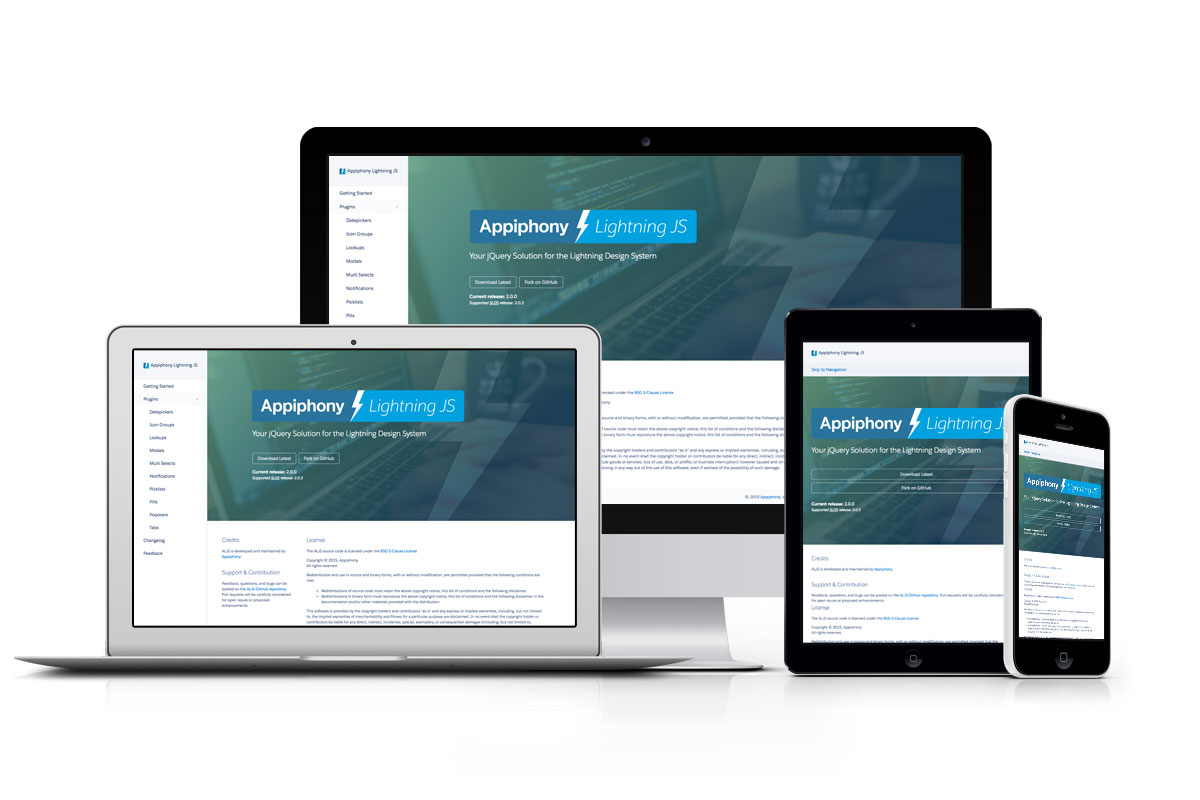
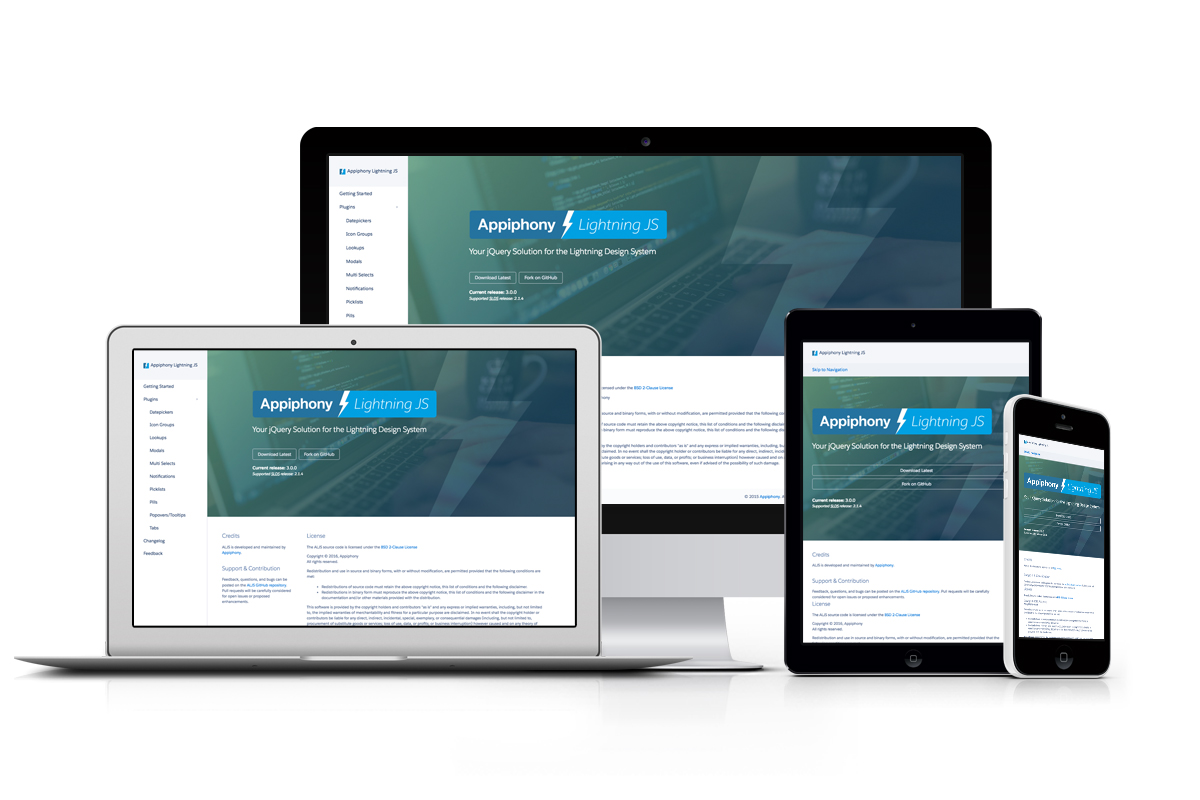
Updated project images; reverted back to no delay on loading animations

diff --git a/css/main.min.css b/css/main.min.css
@@ -1,1 +1,1 @@
-*,a:focus{outline:0}#hero .container .intro .drop-down:after,#hero:after,.clearfix:after{content:''}@-webkit-keyframes load-bounce{0%,100%{-webkit-transform:scale(.25) translateY(-75px)}50%{-webkit-transform:scale(1) translateY(0)}}@keyframes load-bounce{0%,100%{transform:scale(.25) translateY(-75px);-webkit-transform:scale(.25) translateY(-75px)}50%{transform:scale(1) translateY(0);-webkit-transform:scale(1) translateY(0)}}*{padding:0;border:none;margin:0;box-sizing:border-box}body,html{width:100%;height:100%}body{font-family:'Source Sans Pro',sans-serif;-webkit-font-smoothing:antialiased;-moz-osx-font-smoothing:grayscale;-ms-text-size-adjust:100%;-webkit-text-size-adjust:100%;font-size:14px;background-color:#000;overflow-x:hidden;overflow-y:scroll}body.disable-scroll{overflow-y:hidden;-webkit-overflow-scrolling:none}a,a:visited{color:#f68b1f;text-decoration:none;font-weight:700;-webkit-transition:all 250ms ease;-moz-transition:all 250ms ease;-ms-transition:all 250ms ease;-o-transition:all 250ms ease;transition:all 250ms ease}a:hover{color:#fff}::selection{background:#ff9d1d}::-moz-selection{background:#ff9d1d}.container{width:1200px;margin:0 auto}.clearfix:after{display:table;clear:both}header{overflow:hidden;width:100%;height:100px;background-color:rgba(0,0,0,.8);position:fixed;top:0;z-index:9999;-webkit-transition:all 250ms cubic-bezier(.5,0,0,1);-moz-transition:all 250ms cubic-bezier(.5,0,0,1);-ms-transition:all 250ms cubic-bezier(.5,0,0,1);-o-transition:all 250ms cubic-bezier(.5,0,0,1);transition:all 250ms cubic-bezier(.5,0,0,1)}header.open{overflow:auto;height:100%}header h1{display:inline-block;float:left;margin-top:29px}header h1 .logo{height:40px;width:auto;cursor:pointer}header h1 .logo.fallback{display:none}header nav{display:block;float:right;margin-top:32px}header nav ul{list-style:none}header nav ul li{float:left;margin-left:10px}#project .project-hero .project-actions a,#project .project-hero .project-actions a:visited,header nav ul li a,header nav ul li a:visited{display:inline-block;color:#1e1e1e;font-size:12px;font-weight:700;text-transform:uppercase;padding:10.5px 12px;background-color:#fff;-webkit-border-radius:2px;-moz-border-radius:2px;border-radius:2px;-webkit-box-shadow:4px 6px 10px 0 rgba(0,0,0,.25);-moz-box-shadow:4px 6px 10px 0 rgba(0,0,0,.25);box-shadow:4px 6px 10px 0 rgba(0,0,0,.25)}header nav ul li a:hover{color:#f68b1f}#project .project-hero .project-actions a .icon,header nav ul li a .icon{display:inline-block;margin-right:6px}header .mobile-menu{display:none;float:right;margin-top:27px}header .mobile-menu:after{font-family:FontAwesome;font-size:12px;color:#1e1e1e;content:'\f0c9';display:block;padding:11.5px 12.5px;background-color:#fff;-webkit-border-radius:2px;-moz-border-radius:2px;border-radius:2px;-webkit-transition:all 250ms ease;-moz-transition:all 250ms ease;-ms-transition:all 250ms ease;-o-transition:all 250ms ease;transition:all 250ms ease;-webkit-box-shadow:4px 6px 10px 0 rgba(0,0,0,.25);-moz-box-shadow:4px 6px 10px 0 rgba(0,0,0,.25);box-shadow:4px 6px 10px 0 rgba(0,0,0,.25)}header .mobile-menu.active:after{color:#1e1e1e;background-color:#f68b1f}#hero{position:relative}#hero:after{background:url(../images/hero-bg.jpg) center center no-repeat;background-size:cover;position:absolute;top:0;width:100%;height:600px;-webkit-transition:opacity 1500ms ease;-moz-transition:opacity 1500ms ease;-ms-transition:opacity 1500ms ease;-o-transition:opacity 1500ms ease;transition:opacity 1500ms ease;opacity:0}#hero.reveal:after{opacity:.25}#hero .container{position:relative;z-index:9998;height:600px;-webkit-transition:all 500ms ease;-moz-transition:all 500ms ease;-ms-transition:all 500ms ease;-o-transition:all 500ms ease;transition:all 500ms ease;opacity:1}#hero .container .intro,#hero .container .intro .drop-down{line-height:48px;-moz-transition:all 250ms ease;-ms-transition:all 250ms ease;-o-transition:all 250ms ease}#hero .container.closed{height:100px;opacity:0}#hero .container .intro{width:720px;font-size:28px;font-weight:300;letter-spacing:-.25px;color:#fff;position:absolute;z-index:2;bottom:162px;right:0;padding-left:28px;margin-bottom:120px;border-left:1px solid #f68b1f;overflow:hidden;opacity:0;-webkit-transition:all 250ms ease;transition:all 250ms ease}#hero .container .intro.loaded{overflow:visible}#hero .container .intro.reveal{margin-bottom:0;opacity:1}#hero .container .intro .slide-in{width:720px;position:relative;left:-720px;-webkit-transition:all 500ms ease;-moz-transition:all 500ms ease;-ms-transition:all 500ms ease;-o-transition:all 500ms ease;transition:all 500ms ease}#hero .container .intro .slide-in.reveal{left:0}#hero .container .intro strong{font-size:64px;display:inline-block;margin:16px 0 14px;width:100%;font-weight:900;text-transform:uppercase;position:relative;left:-2px}#hero .container .intro .reponsive-break{display:none}#hero .container .intro .drop-down{font-size:24px;font-weight:700;font-style:normal;color:#3c3c3c;background-color:#fff;display:inline-block;vertical-align:top;padding:0 16px 1px;margin:0 6px;width:240px;position:relative;top:1px;cursor:pointer;-webkit-border-radius:2px;-moz-border-radius:2px;border-radius:2px;text-align:left;-webkit-transition:all 250ms ease;transition:all 250ms ease}#hero .container .intro .drop-down .options,#hero .container .intro .drop-down:after{-webkit-transition:all 250ms ease;-moz-transition:all 250ms ease;-ms-transition:all 250ms ease;-o-transition:all 250ms ease;height:0;position:absolute}#hero .container .intro .drop-down:hover{color:#f68b1f}#hero .container .intro .drop-down:after{display:block;width:0;border-style:solid;border-width:7px 8px 0;border-color:#3c3c3c transparent transparent;right:16px;top:21px;transition:all 250ms ease}#hero .container .intro .drop-down:hover:after{border-color:#f68b1f transparent transparent}#hero .container .intro .drop-down .options{list-style:none;background-color:#1e1e1e;font-weight:300;top:58px;left:0;z-index:9998;width:240px;-webkit-border-radius:2px;-moz-border-radius:2px;border-radius:2px;transition:all 250ms ease;overflow:hidden}#hero .container .intro .drop-down .options.open{height:188px;padding:6px 0 8px}#hero .container .intro .drop-down .options li{display:block;font-size:22px;line-height:22px;color:#fff;padding:6px 16px;margin:0;cursor:pointer;-webkit-transition:all 250ms ease;-moz-transition:all 250ms ease;-ms-transition:all 250ms ease;-o-transition:all 250ms ease;transition:all 250ms ease}#hero .container .intro .drop-down .options li:hover{color:#f68b1f}#hero .container #hero-photo{position:absolute;z-index:9998;width:50%;bottom:0;pointer-events:none;-webkit-transition:all 2000ms ease;-moz-transition:all 2000ms ease;-ms-transition:all 2000ms ease;-o-transition:all 2000ms ease;transition:all 2000ms ease;opacity:1}#hero .container.closed #hero-photo{opacity:0}main #portfolio{list-style:none;padding:0}main #portfolio li{float:left;width:25%;height:260px}main #portfolio li a{display:block;width:100%;height:260px;position:relative;color:#fff;font-weight:700;overflow:hidden;-webkit-transition:all 250ms ease;-moz-transition:all 250ms ease;-ms-transition:all 250ms ease;-o-transition:all 250ms ease;transition:all 250ms ease;opacity:0;margin-top:60px;pointer-events:none}main #portfolio li.loaded a{opacity:1;margin-top:0}main.loaded #portfolio li a{-webkit-transition:none;-moz-transition:none;-ms-transition:none;-o-transition:none;transition:none;pointer-events:all}main #portfolio li a .title,main #portfolio li a img{-webkit-transition:all 250ms cubic-bezier(.5,0,0,1);-moz-transition:all 250ms cubic-bezier(.5,0,0,1);-ms-transition:all 250ms cubic-bezier(.5,0,0,1);-o-transition:all 250ms cubic-bezier(.5,0,0,1);transition:all 250ms cubic-bezier(.5,0,0,1)}main #portfolio li a img{-webkit-filter:grayscale(.25) brightness(.75);filter:grayscale(.25) brightness(.75)}main #portfolio li a .title{padding:15px;background-color:rgba(0,0,0,.6);display:block;overflow:hidden;text-overflow:ellipsis;white-space:nowrap;position:absolute;bottom:-100px;left:0;width:100%}main.loaded #portfolio li a:hover img{-webkit-transform:scale(1.05);-moz-transform:scale(1.05);-ms-transform:scale(1.05);-o-transform:scale(1.05);transform:scale(1.05);-webkit-filter:grayscale(0) brightness(1);filter:grayscale(0) brightness(1)}main.loaded #portfolio li.loaded a:hover .title{bottom:0}#loading{width:auto;text-align:center;position:fixed;left:50%;margin-left:-35px;top:50%;margin-top:-10px;opacity:0;z-index:9999;pointer-events:none;-webkit-transition:all 250ms ease 50ms;-moz-transition:all 250ms ease 50ms;-ms-transition:all 250ms ease 50ms;-o-transition:all 250ms ease 50ms;transition:all 250ms ease 50ms}#loading.active{opacity:1}#loading>div{width:18px;height:18px;background-color:#fff;border-radius:100%;display:inline-block;margin:0 2px;-webkit-animation:load-bounce 1000ms infinite ease-in-out;animation:load-bounce 1000ms infinite ease-in-out;-webkit-animation-fill-mode:both;animation-fill-mode:both;-webkit-animation-play-state:paused;animation-play-state:paused}#loading.active>div{-webkit-animation-play-state:running;animation-play-state:running}#loading .bounce-1{-webkit-animation-delay:-320ms;animation-delay:-320ms}#loading .bounce-2{-webkit-animation-delay:-160ms;animation-delay:-160ms}#project{margin-top:22px}#project .project-content,#project .project-hero{opacity:0;-webkit-transition:all 350ms cubic-bezier(.5,.1,0,1.75);-moz-transition:all 350ms cubic-bezier(.5,.1,0,1.75);-ms-transition:all 350ms cubic-bezier(.5,.1,0,1.75);-o-transition:all 350ms cubic-bezier(.5,.1,0,1.75);transition:all 350ms cubic-bezier(.5,.1,0,1.75);-moz-transform:translateY(100px);-webkit-transform:translateY(100px);-o-transform:translateY(100px);-ms-transform:translateY(100px);transform:translateY(100px)}#project .project-content.active,#project .project-hero.active{opacity:1;-moz-transform:translateY(0);-webkit-transform:translateY(0);-o-transform:translateY(0);-ms-transform:translateY(0);transform:translateY(0)}#project .project-hero{height:300px;position:relative;background-size:cover;background-position:center center;background-repeat:no-repeat}#project .project-hero .project-actions{display:block;position:absolute;top:30px;right:30px;list-style:none}#project .project-hero .project-actions li{float:left;display:block;margin-left:10px}#project .project-hero .project-actions #close-btn{padding:10.5px 13.5px}#project .project-hero .project-actions #info-btn{padding:10.5px 16px}#project .project-hero .project-actions #info-btn.active{color:#1e1e1e;background-color:#f68b1f}#project .project-hero .project-actions #info-btn.active:hover{color:#fff}#project .project-hero .project-actions #close-btn:after,#project .project-hero .project-actions #info-btn:after{font-family:FontAwesome;content:'\f00d'}#project .project-hero .project-actions #info-btn:after{content:'\f129'}#project .project-hero .project-actions #close-btn:hover,#project .project-hero .project-actions #info-btn:hover{color:#f68b1f}#project .project-hero .title{background-color:rgba(0,0,0,.6);padding:20px 30px;position:absolute;width:100%;bottom:0}#project .project-hero .title h2{font-size:36px;font-weight:300;letter-spacing:-.25px;display:inline-block;float:left;color:#fff;margin-top:2px}#project .project-hero .title .tools{float:right;display:block}#project .project-hero .title .tools img{display:inline-block;margin:8px 0 0 10px;height:36px;width:auto;max-width:80px}#project .project-content{background-color:#fff;margin-bottom:30px}#project .project-content .notes{padding:25px 30px;color:#fff;background-color:#1e1e1e;display:none}#project .project-content .images,#project .project-content .text,#project .project-content .videos{padding:30px;position:relative}#project .project-content .images img{max-width:100%;height:auto;display:block}#project .project-content .images ul:not(.lSPager){list-style:none;width:100%}#project .project-content .images ul:not(.lSPager) li{width:100%}#project .project-content .images .lSNext,#project .project-content .images .lSPrev{display:block;color:#1e1e1e;font-size:18px;line-height:12px;font-weight:700;width:36px;height:36px;background-color:#fff;background-image:none;-webkit-border-radius:2px;-moz-border-radius:2px;border-radius:2px;opacity:1;-webkit-box-shadow:4px 6px 10px 0 rgba(0,0,0,.25);-moz-box-shadow:4px 6px 10px 0 rgba(0,0,0,.25);box-shadow:4px 6px 10px 0 rgba(0,0,0,.25)}#project .project-content .images .lSPrev{padding:12px 12.5px;left:15px}#project .project-content .images .lSNext{padding:12px 13.5px;right:15px}#project .project-content .images .lSNext:after,#project .project-content .images .lSPrev:after{font-family:FontAwesome;font-size:12px;content:'\f053';display:block;-webkit-transition:all 250ms ease;-moz-transition:all 250ms ease;-ms-transition:all 250ms ease;-o-transition:all 250ms ease;transition:all 250ms ease}#project .project-content .images .lSNext:after{content:'\f054'}#project .project-content .images .lSNext:hover:after,#project .project-content .images .lSPrev:hover:after{color:#f68b1f}#project .project-content .videos .embed-container{position:relative;padding-bottom:56.25%;overflow:hidden;max-width:100%;height:auto}#project .project-content .videos .embed-container embed,#project .project-content .videos .embed-container iframe,#project .project-content .videos .embed-container object{position:absolute;top:0;left:0;width:100%;height:100%}#project .project-content .text{font-size:18px;line-height:26px}.lSSlideOuter .lSPager.lSpg>li a{background-color:#1e1e1e;-webkit-transition:all 250ms ease;-moz-transition:all 250ms ease;-ms-transition:all 250ms ease;-o-transition:all 250ms ease;transition:all 250ms ease}.lSSlideOuter .lSPager.lSpg>li.active a,.lSSlideOuter .lSPager.lSpg>li:hover a{background-color:#f68b1f}.tooltipster-default{border-radius:2px;border:none;background:#fff;color:#1e1e1e}.tooltipster-default .tooltipster-content{font-family:'Source Sans Pro',sans-serif;font-size:14px;padding:10px 12px}footer{background-color:#1e1e1e;color:#fff;font-size:12px;line-height:16px;padding:30px 0;opacity:0;-webkit-transition:all 250ms ease;-moz-transition:all 250ms ease;-ms-transition:all 250ms ease;-o-transition:all 250ms ease;transition:all 250ms ease}footer.reveal{opacity:1}@media only screen and (max-width:1340px){.container{width:960px}#hero .container,#hero:after{height:520px}#hero .container .intro{width:620px;font-size:24px;line-height:40px;bottom:134px;padding-left:24px}#hero .container .intro .slide-in{width:620px}#hero .container .intro strong{font-size:54px}#hero .container .intro .drop-down{font-size:20px;line-height:42px;margin:0 4px;width:210px;top:-1px}#hero .container .intro .drop-down:after{top:18px}#hero .container .intro .drop-down .options{top:52px;width:210px}#hero .container .intro .drop-down .options.open{height:178px}#hero .container .intro .drop-down .options li{font-size:20px;line-height:20px}#hero .container #hero-photo{left:-50px}main #portfolio li{width:33.333%;height:240px}main #portfolio li a{height:240px}}@media only screen and (max-width:1040px){.container{width:100%;padding:0 30px}#hero .container,#hero:after{height:400px}#hero .container .intro{width:580px;font-size:16px;line-height:24px;bottom:100px;padding-left:14px}#hero .container .intro .slide-in{width:580px}#hero .container .intro strong{font-size:40px}#hero .container .intro .drop-down{font-size:14px;line-height:28px;padding:0 10px 1px;width:140px}#hero .container .intro .drop-down:after{border-width:4px 5px 0;top:12.5px;right:10px}#hero .container .intro .drop-down .options{width:140px;top:38px}#hero .container .intro .drop-down .options.open{height:126px;padding:6px 0 8px}#hero .container .intro .drop-down .options li{font-size:14px;line-height:14px;padding:4px 14px}#hero .container #hero-photo{width:360px;left:80px}main #portfolio li{width:50%;height:280px}main #portfolio li a{height:280px}main #portfolio li a .title{padding:15px 30px;bottom:0}main #portfolio li a img,main.loaded #portfolio li a:hover img{-webkit-transform:scale(1.25) translateY(-18px);-moz-transform:scale(1.25) translateY(-18px);-ms-transform:scale(1.25) translateY(-18px);-o-transform:scale(1.25) translateY(-18px);transform:scale(1.25) translateY(-18px);-webkit-filter:grayscale(0) brightness(1);filter:grayscale(0) brightness(1)}#project .project-hero{height:220px}#project .project-hero .title h2{font-size:26px}#project .project-hero .title .tools img{margin-left:8px;height:28px}#project .project-content .text{font-size:16px;line-height:24px}#project .project-content .images .lSNext,#project .project-content .images .lSPrev{display:none}}@media only screen and (max-width:960px){#hero .container .intro,#hero .container .intro .slide-in{width:520px}#hero .container #hero-photo{left:40px}}@media only screen and (max-width:840px){#hero .container #hero-photo{left:-40px}}@media only screen and (max-width:740px){body{font-size:12px}header{height:90px}header h1{position:absolute;left:30px;-webkit-transition:all 250ms ease;-moz-transition:all 250ms ease;-ms-transition:all 250ms ease;-o-transition:all 250ms ease;transition:all 250ms ease}header h1.switch{left:-180px}header h1 .logo{height:30px}header nav{margin-top:27px;position:absolute;left:-240px;-webkit-transition:all 250ms ease;-moz-transition:all 250ms ease;-ms-transition:all 250ms ease;-o-transition:all 250ms ease;transition:all 250ms ease}header nav ul li{margin-left:6px}header nav ul li a,header nav ul li a:visited{font-size:11px}header nav.switch{left:30px}header nav ul li:first-child{margin-left:0}#project .project-hero .project-actions a .icon,header nav ul li a .icon{display:none}#hero:after,header .mobile-menu{display:block}#hero:after{opacity:.25}#hero .container.closed{height:400px;opacity:1}#hero .container .intro{width:100%;bottom:102px;padding-left:30px;margin-bottom:0;border-left:none;overflow:visible;opacity:1}#hero .container .intro .slide-in{width:100%;left:0}#hero .container #hero-photo{display:none}main #portfolio li{width:100%;height:240px;float:none}main #portfolio li a{height:240px;opacity:1;margin-top:0;-webkit-transition:none;-moz-transition:none;-ms-transition:none;-o-transition:none;transition:none}#project .project-hero{height:180px}#project .project-hero .project-actions{top:15px;right:15px}#project .project-hero .title{padding:10px 15px 12px}#project .project-hero .title h2{float:none;font-size:20px}#project .project-hero .title .tools{float:none;margin-top:5px}#project .project-hero .title .tools img{margin:0 5px 0 0;height:18px}#project .project-hero .project-actions #info-btn.active:hover{color:#1e1e1e}#project .project-content .notes{padding:12px 15px 14px}#project .project-content .images,#project .project-content .text,#project .project-content .videos{padding:15px}#project .project-content .text{font-size:14px;line-height:20px}#project .project-content .images .lSSlideOuter .lSPager.lSpg{margin-top:15px!important}}@media only screen and (max-width:460px){#hero .container .intro{line-height:16px;bottom:76px;padding-right:30px}#hero .container .intro strong{line-height:36px;margin-bottom:10px}#hero .container .intro .reponsive-break{display:inline}#hero .container .intro .drop-down{top:-5px}}@media only print{#hero,footer,header,main{display:none!important}body:after{content:'Save the trees!';display:inline;font-size:20px;font-weight:700}}
+*,a:focus{outline:0}#hero .container .intro .drop-down:after,#hero:after,.clearfix:after{content:''}@-webkit-keyframes load-bounce{0%,100%{-webkit-transform:scale(.25) translateY(-75px)}50%{-webkit-transform:scale(1) translateY(0)}}@keyframes load-bounce{0%,100%{transform:scale(.25) translateY(-75px);-webkit-transform:scale(.25) translateY(-75px)}50%{transform:scale(1) translateY(0);-webkit-transform:scale(1) translateY(0)}}*{padding:0;border:none;margin:0;box-sizing:border-box}body,html{width:100%;height:100%}body{font-family:'Source Sans Pro',sans-serif;-webkit-font-smoothing:antialiased;-moz-osx-font-smoothing:grayscale;-ms-text-size-adjust:100%;-webkit-text-size-adjust:100%;font-size:14px;background-color:#000;overflow-x:hidden;overflow-y:scroll}body.disable-scroll{overflow-y:hidden;-webkit-overflow-scrolling:none}a,a:visited{color:#f68b1f;text-decoration:none;font-weight:700;-webkit-transition:all 250ms ease;-moz-transition:all 250ms ease;-ms-transition:all 250ms ease;-o-transition:all 250ms ease;transition:all 250ms ease}a:hover{color:#fff}::selection{background:#ff9d1d}::-moz-selection{background:#ff9d1d}.container{width:1200px;margin:0 auto}.clearfix:after{display:table;clear:both}header{overflow:hidden;width:100%;height:100px;background-color:rgba(0,0,0,.8);position:fixed;top:0;z-index:9999;-webkit-transition:all 250ms cubic-bezier(.5,0,0,1);-moz-transition:all 250ms cubic-bezier(.5,0,0,1);-ms-transition:all 250ms cubic-bezier(.5,0,0,1);-o-transition:all 250ms cubic-bezier(.5,0,0,1);transition:all 250ms cubic-bezier(.5,0,0,1)}header.open{overflow:auto;height:100%}header h1{display:inline-block;float:left;margin-top:29px}header h1 .logo{height:40px;width:auto;cursor:pointer}header h1 .logo.fallback{display:none}header nav{display:block;float:right;margin-top:32px}header nav ul{list-style:none}header nav ul li{float:left;margin-left:10px}#project .project-hero .project-actions a,#project .project-hero .project-actions a:visited,header nav ul li a,header nav ul li a:visited{display:inline-block;color:#1e1e1e;font-size:12px;font-weight:700;text-transform:uppercase;padding:10.5px 12px;background-color:#fff;-webkit-border-radius:2px;-moz-border-radius:2px;border-radius:2px;-webkit-box-shadow:4px 6px 10px 0 rgba(0,0,0,.25);-moz-box-shadow:4px 6px 10px 0 rgba(0,0,0,.25);box-shadow:4px 6px 10px 0 rgba(0,0,0,.25)}header nav ul li a:hover{color:#f68b1f}#project .project-hero .project-actions a .icon,header nav ul li a .icon{display:inline-block;margin-right:6px}header .mobile-menu{display:none;float:right;margin-top:27px}header .mobile-menu:after{font-family:FontAwesome;font-size:12px;color:#1e1e1e;content:'\f0c9';display:block;padding:11.5px 12.5px;background-color:#fff;-webkit-border-radius:2px;-moz-border-radius:2px;border-radius:2px;-webkit-transition:all 250ms ease;-moz-transition:all 250ms ease;-ms-transition:all 250ms ease;-o-transition:all 250ms ease;transition:all 250ms ease;-webkit-box-shadow:4px 6px 10px 0 rgba(0,0,0,.25);-moz-box-shadow:4px 6px 10px 0 rgba(0,0,0,.25);box-shadow:4px 6px 10px 0 rgba(0,0,0,.25)}header .mobile-menu.active:after{color:#1e1e1e;background-color:#f68b1f}#hero{position:relative}#hero:after{background:url(../images/hero-bg.jpg) center center no-repeat;background-size:cover;position:absolute;top:0;width:100%;height:600px;-webkit-transition:opacity 1500ms ease;-moz-transition:opacity 1500ms ease;-ms-transition:opacity 1500ms ease;-o-transition:opacity 1500ms ease;transition:opacity 1500ms ease;opacity:0}#hero.reveal:after{opacity:.25}#hero .container{position:relative;z-index:9998;height:600px;-webkit-transition:all 500ms ease;-moz-transition:all 500ms ease;-ms-transition:all 500ms ease;-o-transition:all 500ms ease;transition:all 500ms ease;opacity:1}#hero .container .intro,#hero .container .intro .drop-down{line-height:48px;-moz-transition:all 250ms ease;-ms-transition:all 250ms ease;-o-transition:all 250ms ease}#hero .container.closed{height:100px;opacity:0}#hero .container .intro{width:720px;font-size:28px;font-weight:300;letter-spacing:-.25px;color:#fff;position:absolute;z-index:2;bottom:162px;right:0;padding-left:28px;margin-bottom:120px;border-left:1px solid #f68b1f;overflow:hidden;opacity:0;-webkit-transition:all 250ms ease;transition:all 250ms ease}#hero .container .intro.loaded{overflow:visible}#hero .container .intro.reveal{margin-bottom:0;opacity:1}#hero .container .intro .slide-in{width:720px;position:relative;left:-720px;-webkit-transition:all 500ms ease;-moz-transition:all 500ms ease;-ms-transition:all 500ms ease;-o-transition:all 500ms ease;transition:all 500ms ease}#hero .container .intro .slide-in.reveal{left:0}#hero .container .intro strong{font-size:64px;display:inline-block;margin:16px 0 14px;width:100%;font-weight:900;text-transform:uppercase;position:relative;left:-2px}#hero .container .intro .reponsive-break{display:none}#hero .container .intro .drop-down{font-size:24px;font-weight:700;font-style:normal;color:#3c3c3c;background-color:#fff;display:inline-block;vertical-align:top;padding:0 16px 1px;margin:0 6px;width:240px;position:relative;top:1px;cursor:pointer;-webkit-border-radius:2px;-moz-border-radius:2px;border-radius:2px;text-align:left;-webkit-transition:all 250ms ease;transition:all 250ms ease}#hero .container .intro .drop-down .options,#hero .container .intro .drop-down:after{-webkit-transition:all 250ms ease;-moz-transition:all 250ms ease;-ms-transition:all 250ms ease;-o-transition:all 250ms ease;height:0;position:absolute}#hero .container .intro .drop-down:hover{color:#f68b1f}#hero .container .intro .drop-down:after{display:block;width:0;border-style:solid;border-width:7px 8px 0;border-color:#3c3c3c transparent transparent;right:16px;top:21px;transition:all 250ms ease}#hero .container .intro .drop-down:hover:after{border-color:#f68b1f transparent transparent}#hero .container .intro .drop-down .options{list-style:none;background-color:#1e1e1e;font-weight:300;top:58px;left:0;z-index:9998;width:240px;-webkit-border-radius:2px;-moz-border-radius:2px;border-radius:2px;transition:all 250ms ease;overflow:hidden}#hero .container .intro .drop-down .options.open{height:188px;padding:6px 0 8px}#hero .container .intro .drop-down .options li{display:block;font-size:22px;line-height:22px;color:#fff;padding:6px 16px;margin:0;cursor:pointer;-webkit-transition:all 250ms ease;-moz-transition:all 250ms ease;-ms-transition:all 250ms ease;-o-transition:all 250ms ease;transition:all 250ms ease}#hero .container .intro .drop-down .options li:hover{color:#f68b1f}#hero .container #hero-photo{position:absolute;z-index:9998;width:50%;bottom:0;pointer-events:none;-webkit-transition:all 2000ms ease;-moz-transition:all 2000ms ease;-ms-transition:all 2000ms ease;-o-transition:all 2000ms ease;transition:all 2000ms ease;opacity:1}#hero .container.closed #hero-photo{opacity:0}main #portfolio{list-style:none;padding:0}main #portfolio li{float:left;width:25%;height:260px}main #portfolio li a{display:block;width:100%;height:260px;position:relative;color:#fff;font-weight:700;overflow:hidden;-webkit-transition:all 250ms ease;-moz-transition:all 250ms ease;-ms-transition:all 250ms ease;-o-transition:all 250ms ease;transition:all 250ms ease;opacity:0;margin-top:60px;pointer-events:none}main #portfolio li.loaded a{opacity:1;margin-top:0}main.loaded #portfolio li a{-webkit-transition:none;-moz-transition:none;-ms-transition:none;-o-transition:none;transition:none;pointer-events:all}main #portfolio li a .title,main #portfolio li a img{-webkit-transition:all 250ms cubic-bezier(.5,0,0,1);-moz-transition:all 250ms cubic-bezier(.5,0,0,1);-ms-transition:all 250ms cubic-bezier(.5,0,0,1);-o-transition:all 250ms cubic-bezier(.5,0,0,1);transition:all 250ms cubic-bezier(.5,0,0,1)}main #portfolio li a img{-webkit-filter:grayscale(.25) brightness(.75);filter:grayscale(.25) brightness(.75)}main #portfolio li a .title{padding:15px;background-color:rgba(0,0,0,.6);display:block;overflow:hidden;text-overflow:ellipsis;white-space:nowrap;position:absolute;bottom:-100px;left:0;width:100%}main.loaded #portfolio li a:hover img{-webkit-transform:scale(1.05);-moz-transform:scale(1.05);-ms-transform:scale(1.05);-o-transform:scale(1.05);transform:scale(1.05);-webkit-filter:grayscale(0) brightness(1);filter:grayscale(0) brightness(1)}main.loaded #portfolio li.loaded a:hover .title{bottom:0}#loading{width:auto;text-align:center;position:fixed;left:50%;margin-left:-35px;top:50%;margin-top:-10px;opacity:0;z-index:9999;pointer-events:none;-webkit-transition:all 250ms ease;-moz-transition:all 250ms ease;-ms-transition:all 250ms ease;-o-transition:all 250ms ease;transition:all 250ms ease}#loading.active{opacity:1}#loading>div{width:18px;height:18px;background-color:#fff;border-radius:100%;display:inline-block;margin:0 2px;-webkit-animation:load-bounce 1000ms infinite ease-in-out;animation:load-bounce 1000ms infinite ease-in-out;-webkit-animation-fill-mode:both;animation-fill-mode:both;-webkit-animation-play-state:paused;animation-play-state:paused}#loading.active>div{-webkit-animation-play-state:running;animation-play-state:running}#loading .bounce-1{-webkit-animation-delay:-320ms;animation-delay:-320ms}#loading .bounce-2{-webkit-animation-delay:-160ms;animation-delay:-160ms}#project{margin-top:22px}#project .project-content,#project .project-hero{opacity:0;-webkit-transition:all 350ms cubic-bezier(.5,.1,0,1.75);-moz-transition:all 350ms cubic-bezier(.5,.1,0,1.75);-ms-transition:all 350ms cubic-bezier(.5,.1,0,1.75);-o-transition:all 350ms cubic-bezier(.5,.1,0,1.75);transition:all 350ms cubic-bezier(.5,.1,0,1.75);-moz-transform:translateY(100px);-webkit-transform:translateY(100px);-o-transform:translateY(100px);-ms-transform:translateY(100px);transform:translateY(100px)}#project .project-content.active,#project .project-hero.active{opacity:1;-moz-transform:translateY(0);-webkit-transform:translateY(0);-o-transform:translateY(0);-ms-transform:translateY(0);transform:translateY(0)}#project .project-hero{height:300px;position:relative;background-size:cover;background-position:center center;background-repeat:no-repeat}#project .project-hero .project-actions{display:block;position:absolute;top:30px;right:30px;list-style:none}#project .project-hero .project-actions li{float:left;display:block;margin-left:10px}#project .project-hero .project-actions #close-btn{padding:10.5px 13.5px}#project .project-hero .project-actions #info-btn{padding:10.5px 16px}#project .project-hero .project-actions #info-btn.active{color:#1e1e1e;background-color:#f68b1f}#project .project-hero .project-actions #info-btn.active:hover{color:#fff}#project .project-hero .project-actions #close-btn:after,#project .project-hero .project-actions #info-btn:after{font-family:FontAwesome;content:'\f00d'}#project .project-hero .project-actions #info-btn:after{content:'\f129'}#project .project-hero .project-actions #close-btn:hover,#project .project-hero .project-actions #info-btn:hover{color:#f68b1f}#project .project-hero .title{background-color:rgba(0,0,0,.6);padding:20px 30px;position:absolute;width:100%;bottom:0}#project .project-hero .title h2{font-size:36px;font-weight:300;letter-spacing:-.25px;display:inline-block;float:left;color:#fff;margin-top:2px}#project .project-hero .title .tools{float:right;display:block}#project .project-hero .title .tools img{display:inline-block;margin:8px 0 0 10px;height:36px;width:auto;max-width:80px}#project .project-content{background-color:#fff;margin-bottom:30px}#project .project-content .notes{padding:25px 30px;color:#fff;background-color:#1e1e1e;display:none}#project .project-content .images,#project .project-content .text,#project .project-content .videos{padding:30px;position:relative}#project .project-content .images img{max-width:100%;height:auto;display:block}#project .project-content .images ul:not(.lSPager){list-style:none;width:100%}#project .project-content .images ul:not(.lSPager) li{width:100%}#project .project-content .images .lSNext,#project .project-content .images .lSPrev{display:block;color:#1e1e1e;font-size:18px;line-height:12px;font-weight:700;width:36px;height:36px;background-color:#fff;background-image:none;-webkit-border-radius:2px;-moz-border-radius:2px;border-radius:2px;opacity:1;-webkit-box-shadow:4px 6px 10px 0 rgba(0,0,0,.25);-moz-box-shadow:4px 6px 10px 0 rgba(0,0,0,.25);box-shadow:4px 6px 10px 0 rgba(0,0,0,.25)}#project .project-content .images .lSPrev{padding:12px 12.5px;left:15px}#project .project-content .images .lSNext{padding:12px 13.5px;right:15px}#project .project-content .images .lSNext:after,#project .project-content .images .lSPrev:after{font-family:FontAwesome;font-size:12px;content:'\f053';display:block;-webkit-transition:all 250ms ease;-moz-transition:all 250ms ease;-ms-transition:all 250ms ease;-o-transition:all 250ms ease;transition:all 250ms ease}#project .project-content .images .lSNext:after{content:'\f054'}#project .project-content .images .lSNext:hover:after,#project .project-content .images .lSPrev:hover:after{color:#f68b1f}#project .project-content .videos .embed-container{position:relative;padding-bottom:56.25%;overflow:hidden;max-width:100%;height:auto}#project .project-content .videos .embed-container embed,#project .project-content .videos .embed-container iframe,#project .project-content .videos .embed-container object{position:absolute;top:0;left:0;width:100%;height:100%}#project .project-content .text{font-size:18px;line-height:26px}.lSSlideOuter .lSPager.lSpg>li a{background-color:#1e1e1e;-webkit-transition:all 250ms ease;-moz-transition:all 250ms ease;-ms-transition:all 250ms ease;-o-transition:all 250ms ease;transition:all 250ms ease}.lSSlideOuter .lSPager.lSpg>li.active a,.lSSlideOuter .lSPager.lSpg>li:hover a{background-color:#f68b1f}.tooltipster-default{border-radius:2px;border:none;background:#fff;color:#1e1e1e}.tooltipster-default .tooltipster-content{font-family:'Source Sans Pro',sans-serif;font-size:14px;padding:10px 12px}footer{background-color:#1e1e1e;color:#fff;font-size:12px;line-height:16px;padding:30px 0;opacity:0;-webkit-transition:all 250ms ease;-moz-transition:all 250ms ease;-ms-transition:all 250ms ease;-o-transition:all 250ms ease;transition:all 250ms ease}footer.reveal{opacity:1}@media only screen and (max-width:1340px){.container{width:960px}#hero .container,#hero:after{height:520px}#hero .container .intro{width:620px;font-size:24px;line-height:40px;bottom:134px;padding-left:24px}#hero .container .intro .slide-in{width:620px}#hero .container .intro strong{font-size:54px}#hero .container .intro .drop-down{font-size:20px;line-height:42px;margin:0 4px;width:210px;top:-1px}#hero .container .intro .drop-down:after{top:18px}#hero .container .intro .drop-down .options{top:52px;width:210px}#hero .container .intro .drop-down .options.open{height:178px}#hero .container .intro .drop-down .options li{font-size:20px;line-height:20px}#hero .container #hero-photo{left:-50px}main #portfolio li{width:33.333%;height:240px}main #portfolio li a{height:240px}}@media only screen and (max-width:1040px){.container{width:100%;padding:0 30px}#hero .container,#hero:after{height:400px}#hero .container .intro{width:580px;font-size:16px;line-height:24px;bottom:100px;padding-left:14px}#hero .container .intro .slide-in{width:580px}#hero .container .intro strong{font-size:40px}#hero .container .intro .drop-down{font-size:14px;line-height:28px;padding:0 10px 1px;width:140px}#hero .container .intro .drop-down:after{border-width:4px 5px 0;top:12.5px;right:10px}#hero .container .intro .drop-down .options{width:140px;top:38px}#hero .container .intro .drop-down .options.open{height:126px;padding:6px 0 8px}#hero .container .intro .drop-down .options li{font-size:14px;line-height:14px;padding:4px 14px}#hero .container #hero-photo{width:360px;left:80px}main #portfolio li{width:50%;height:280px}main #portfolio li a{height:280px}main #portfolio li a .title{padding:15px 30px;bottom:0}main #portfolio li a img,main.loaded #portfolio li a:hover img{-webkit-transform:scale(1.25) translateY(-18px);-moz-transform:scale(1.25) translateY(-18px);-ms-transform:scale(1.25) translateY(-18px);-o-transform:scale(1.25) translateY(-18px);transform:scale(1.25) translateY(-18px);-webkit-filter:grayscale(0) brightness(1);filter:grayscale(0) brightness(1)}#project .project-hero{height:220px}#project .project-hero .title h2{font-size:26px}#project .project-hero .title .tools img{margin-left:8px;height:28px}#project .project-content .text{font-size:16px;line-height:24px}#project .project-content .images .lSNext,#project .project-content .images .lSPrev{display:none}}@media only screen and (max-width:960px){#hero .container .intro,#hero .container .intro .slide-in{width:520px}#hero .container #hero-photo{left:40px}}@media only screen and (max-width:840px){#hero .container #hero-photo{left:-40px}}@media only screen and (max-width:740px){body{font-size:12px}header{height:90px}header h1{position:absolute;left:30px;-webkit-transition:all 250ms ease;-moz-transition:all 250ms ease;-ms-transition:all 250ms ease;-o-transition:all 250ms ease;transition:all 250ms ease}header h1.switch{left:-180px}header h1 .logo{height:30px}header nav{margin-top:27px;position:absolute;left:-240px;-webkit-transition:all 250ms ease;-moz-transition:all 250ms ease;-ms-transition:all 250ms ease;-o-transition:all 250ms ease;transition:all 250ms ease}header nav ul li{margin-left:6px}header nav ul li a,header nav ul li a:visited{font-size:11px}header nav.switch{left:30px}header nav ul li:first-child{margin-left:0}#project .project-hero .project-actions a .icon,header nav ul li a .icon{display:none}#hero:after,header .mobile-menu{display:block}#hero:after{opacity:.25}#hero .container.closed{height:400px;opacity:1}#hero .container .intro{width:100%;bottom:102px;padding-left:30px;margin-bottom:0;border-left:none;overflow:visible;opacity:1}#hero .container .intro .slide-in{width:100%;left:0}#hero .container #hero-photo{display:none}main #portfolio li{width:100%;height:240px;float:none}main #portfolio li a{height:240px;opacity:1;margin-top:0;-webkit-transition:none;-moz-transition:none;-ms-transition:none;-o-transition:none;transition:none}#project .project-hero{height:180px}#project .project-hero .project-actions{top:15px;right:15px}#project .project-hero .title{padding:10px 15px 12px}#project .project-hero .title h2{float:none;font-size:20px}#project .project-hero .title .tools{float:none;margin-top:5px}#project .project-hero .title .tools img{margin:0 5px 0 0;height:18px}#project .project-hero .project-actions #info-btn.active:hover{color:#1e1e1e}#project .project-content .notes{padding:12px 15px 14px}#project .project-content .images,#project .project-content .text,#project .project-content .videos{padding:15px}#project .project-content .text{font-size:14px;line-height:20px}#project .project-content .images .lSSlideOuter .lSPager.lSpg{margin-top:15px!important}}@media only screen and (max-width:460px){#hero .container .intro{line-height:16px;bottom:76px;padding-right:30px}#hero .container .intro strong{line-height:36px;margin-bottom:10px}#hero .container .intro .reponsive-break{display:inline}#hero .container .intro .drop-down{top:-5px}}@media only print{#hero,footer,header,main{display:none!important}body:after{content:'Save the trees!';display:inline;font-size:20px;font-weight:700}}

diff --git a/css/main.css b/css/main.css
@@ -458,11 +458,11 @@ main.loaded #portfolio li.loaded a:hover .title {
     opacity: 0;
     z-index: 9999;
     pointer-events: none;
-    -webkit-transition: all 250ms ease 50ms;
-    -moz-transition: all 250ms ease 50ms;
-    -ms-transition: all 250ms ease 50ms;
-    -o-transition: all 250ms ease 50ms;
-    transition: all 250ms ease 50ms;
+    -webkit-transition: all 250ms ease;
+    -moz-transition: all 250ms ease;
+    -ms-transition: all 250ms ease;
+    -o-transition: all 250ms ease;
+    transition: all 250ms ease;
 }
 #loading.active {
     opacity: 1;

diff --git a/index.php b/index.php
@@ -1,4 +1,4 @@
-<?php $resourceVersion = '1.40'; ?>
+<?php $resourceVersion = '1.41'; ?>
 <!doctype html>
 <html>
 
